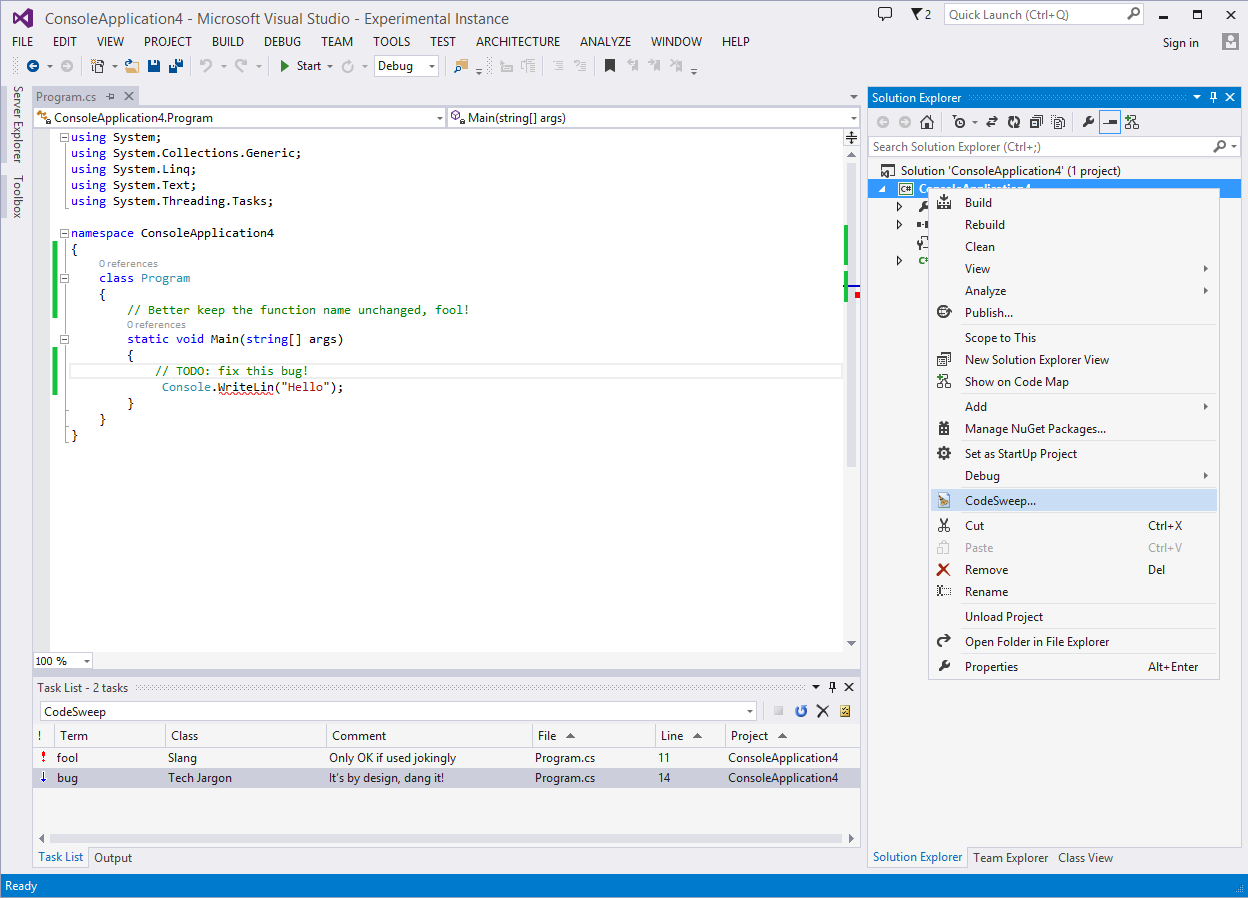
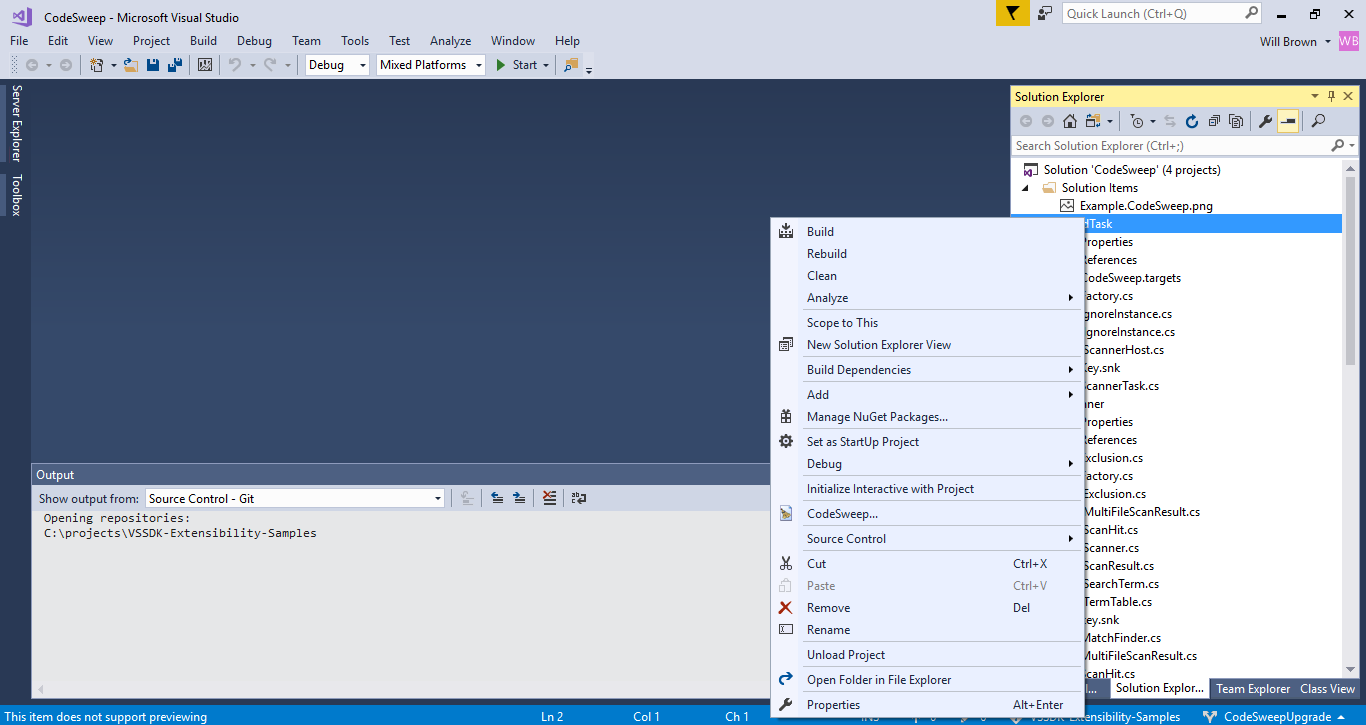
Updated Example.CodeSweep.png and Readme.md with current references

diff --git a/Code_Sweep/Readme.md b/Code_Sweep/Readme.md
@@ -2,7 +2,7 @@
 Sweep a solution looking for any words that match search terms
 in an XML Schema. Display any matches on the Task List in Visual Studio.
 
-* Technologies: Visual Studio 2015 SDK
+* Technologies: Visual Studio 2017 SDK
 * Topics: MSBuild, VSX
 
 **Description**
@@ -25,7 +25,7 @@ task list.
 
 **Requirements**
 
-[ Visual Studio 2015 ](https://www.visualstudio.com/products/visual-studio-community-vs?wt.mc_id=o~display~github~vssdk)
+[ Visual Studio 2017 ](https://www.visualstudio.com/products/visual-studio-community-vs?wt.mc_id=o~display~github~vssdk)
 
 
 
@@ -93,6 +93,6 @@ The CodeSweep Task List toolbar contains four buttons:
 
 **Related topics**
 
-  * [ Toolwindow Documentation ](https://msdn.microsoft.com/en-us/library/bb165390(v=vs.140).aspx)
-  * [ Menu Documentation ](https://msdn.microsoft.com/en-us/library/bb165937(v=vs.140).aspx)
-  * [ Visual Studio SDK Documentation ](https://msdn.microsoft.com/en-us/library/bb166441(v=vs.140).aspx)
+  * [ Toolwindow Documentation ](https://docs.microsoft.com/en-us/visualstudio/extensibility/extending-and-customizing-tool-windows)
+  * [ Menu Documentation ](https://docs.microsoft.com/en-us/visualstudio/extensibility/extending-menus-and-commands)
+  * [ Visual Studio SDK Documentation ](https://docs.microsoft.com/en-us/visualstudio/extensibility/visual-studio-sdk)
